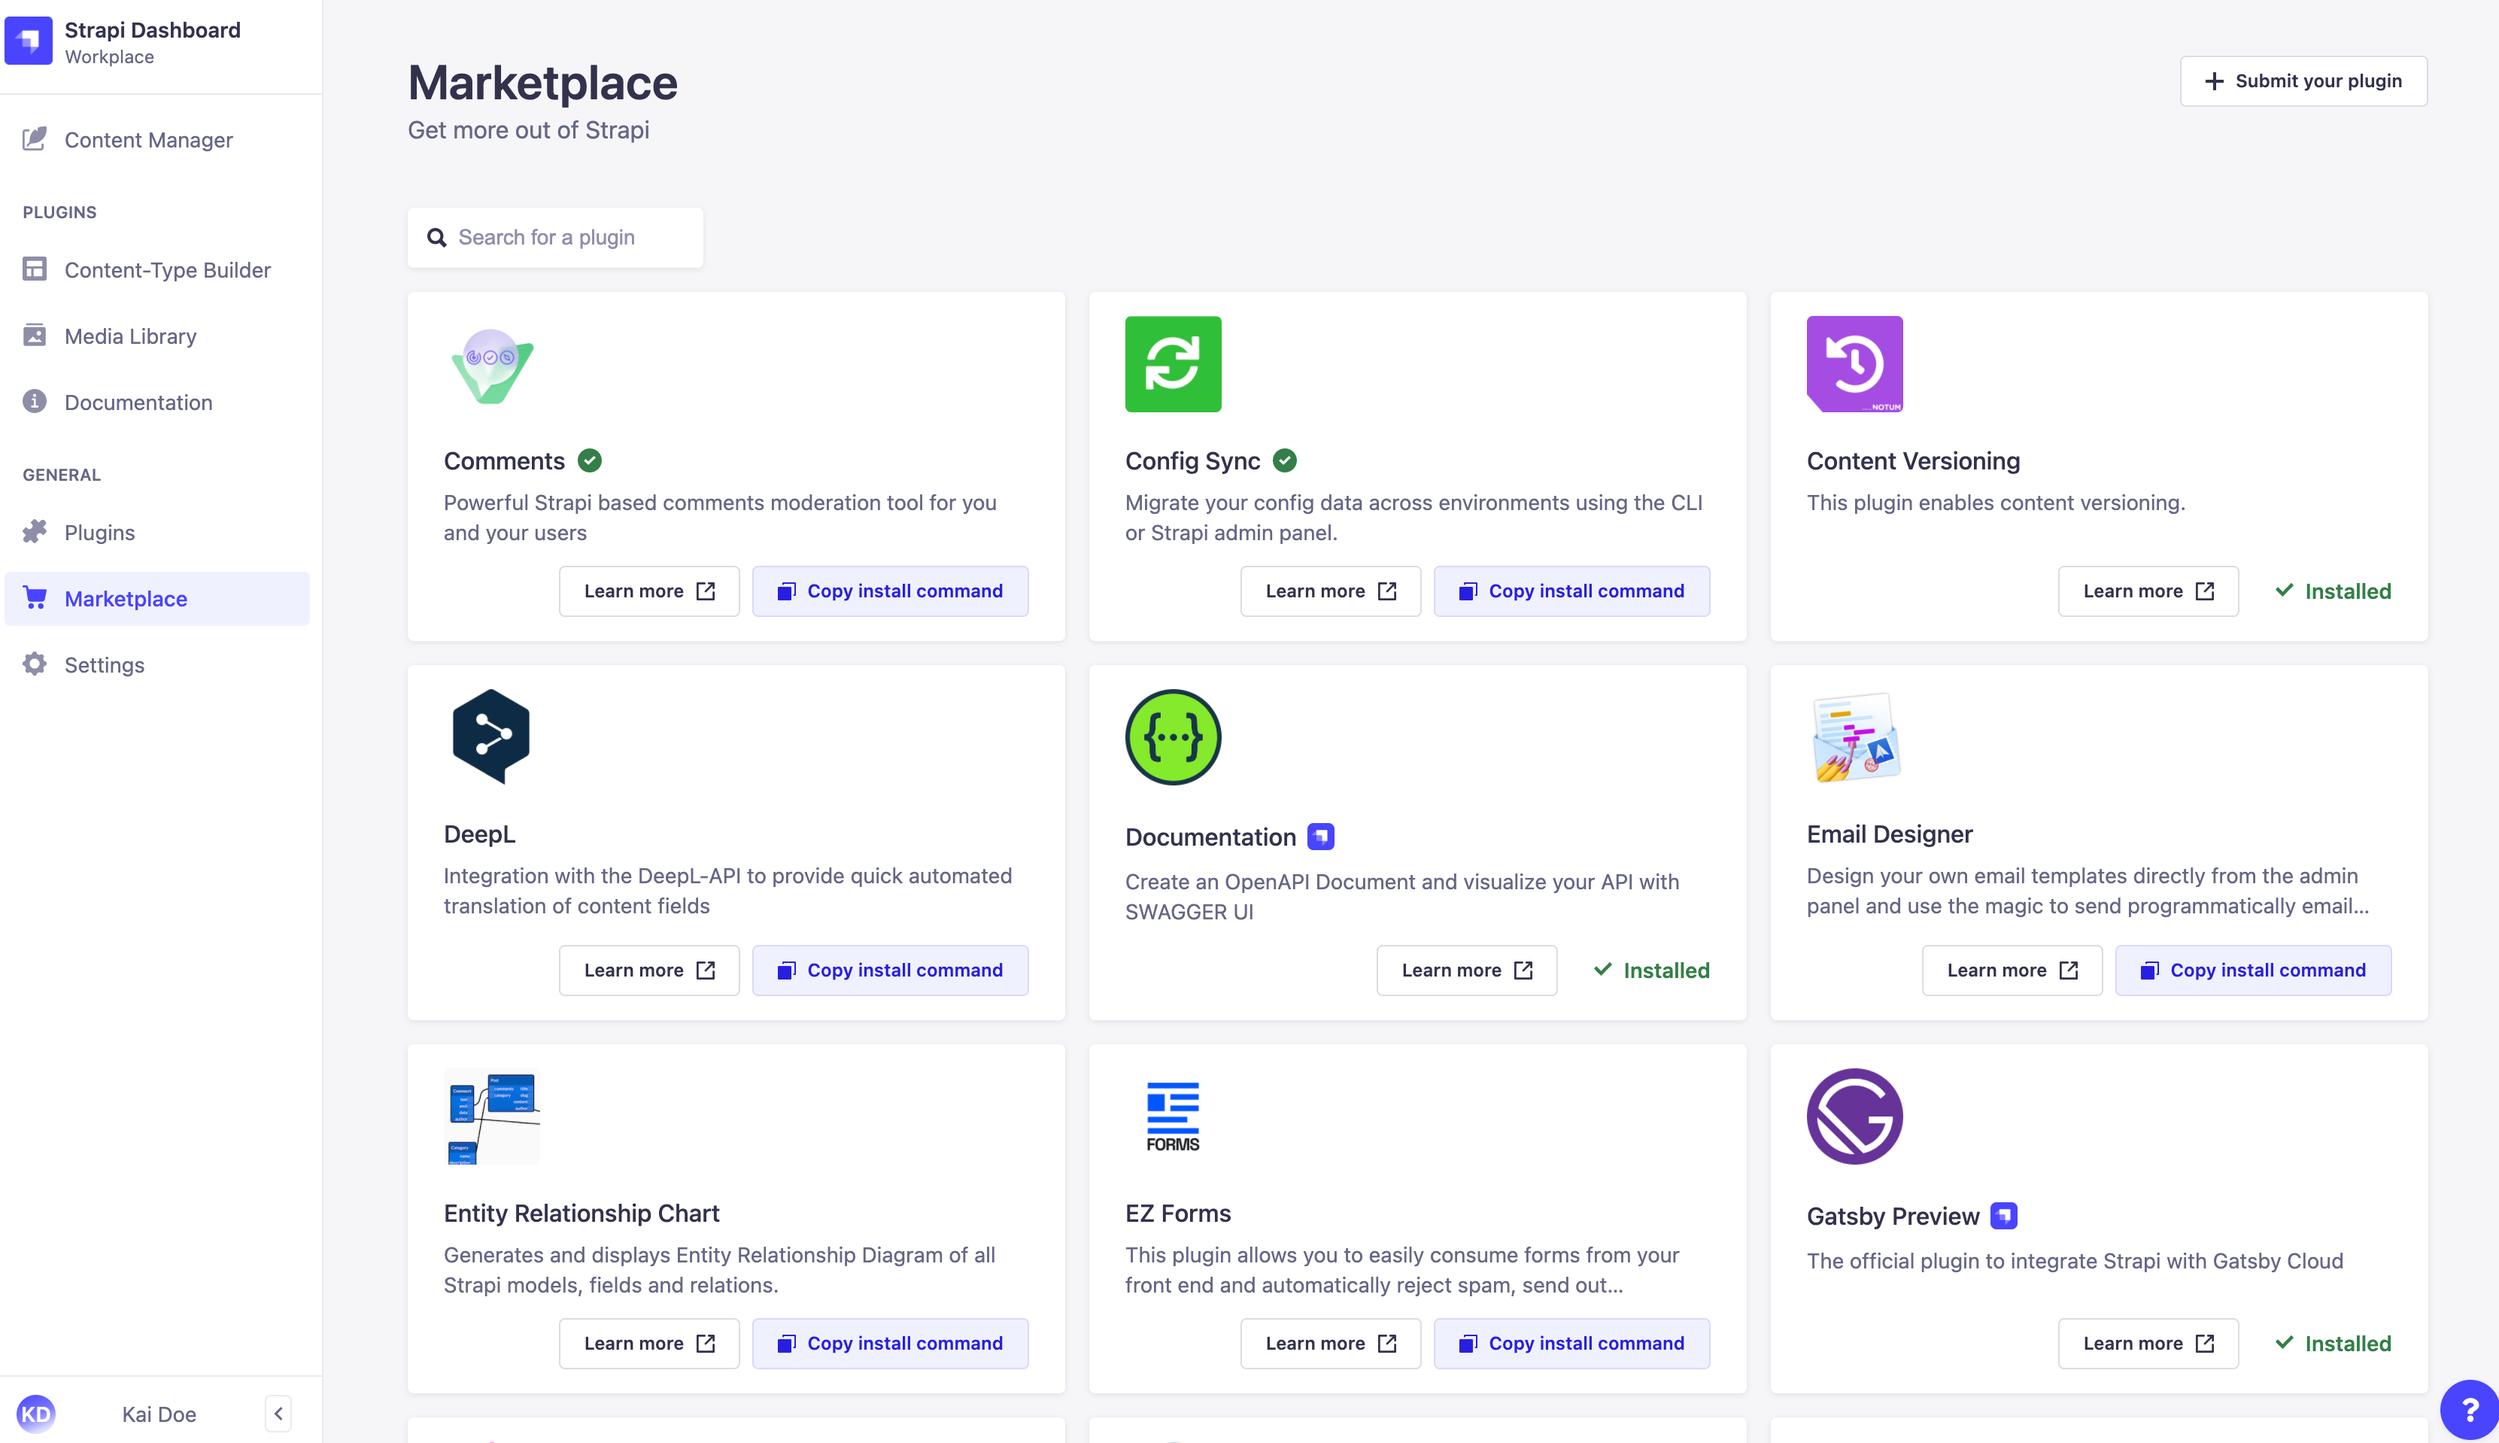
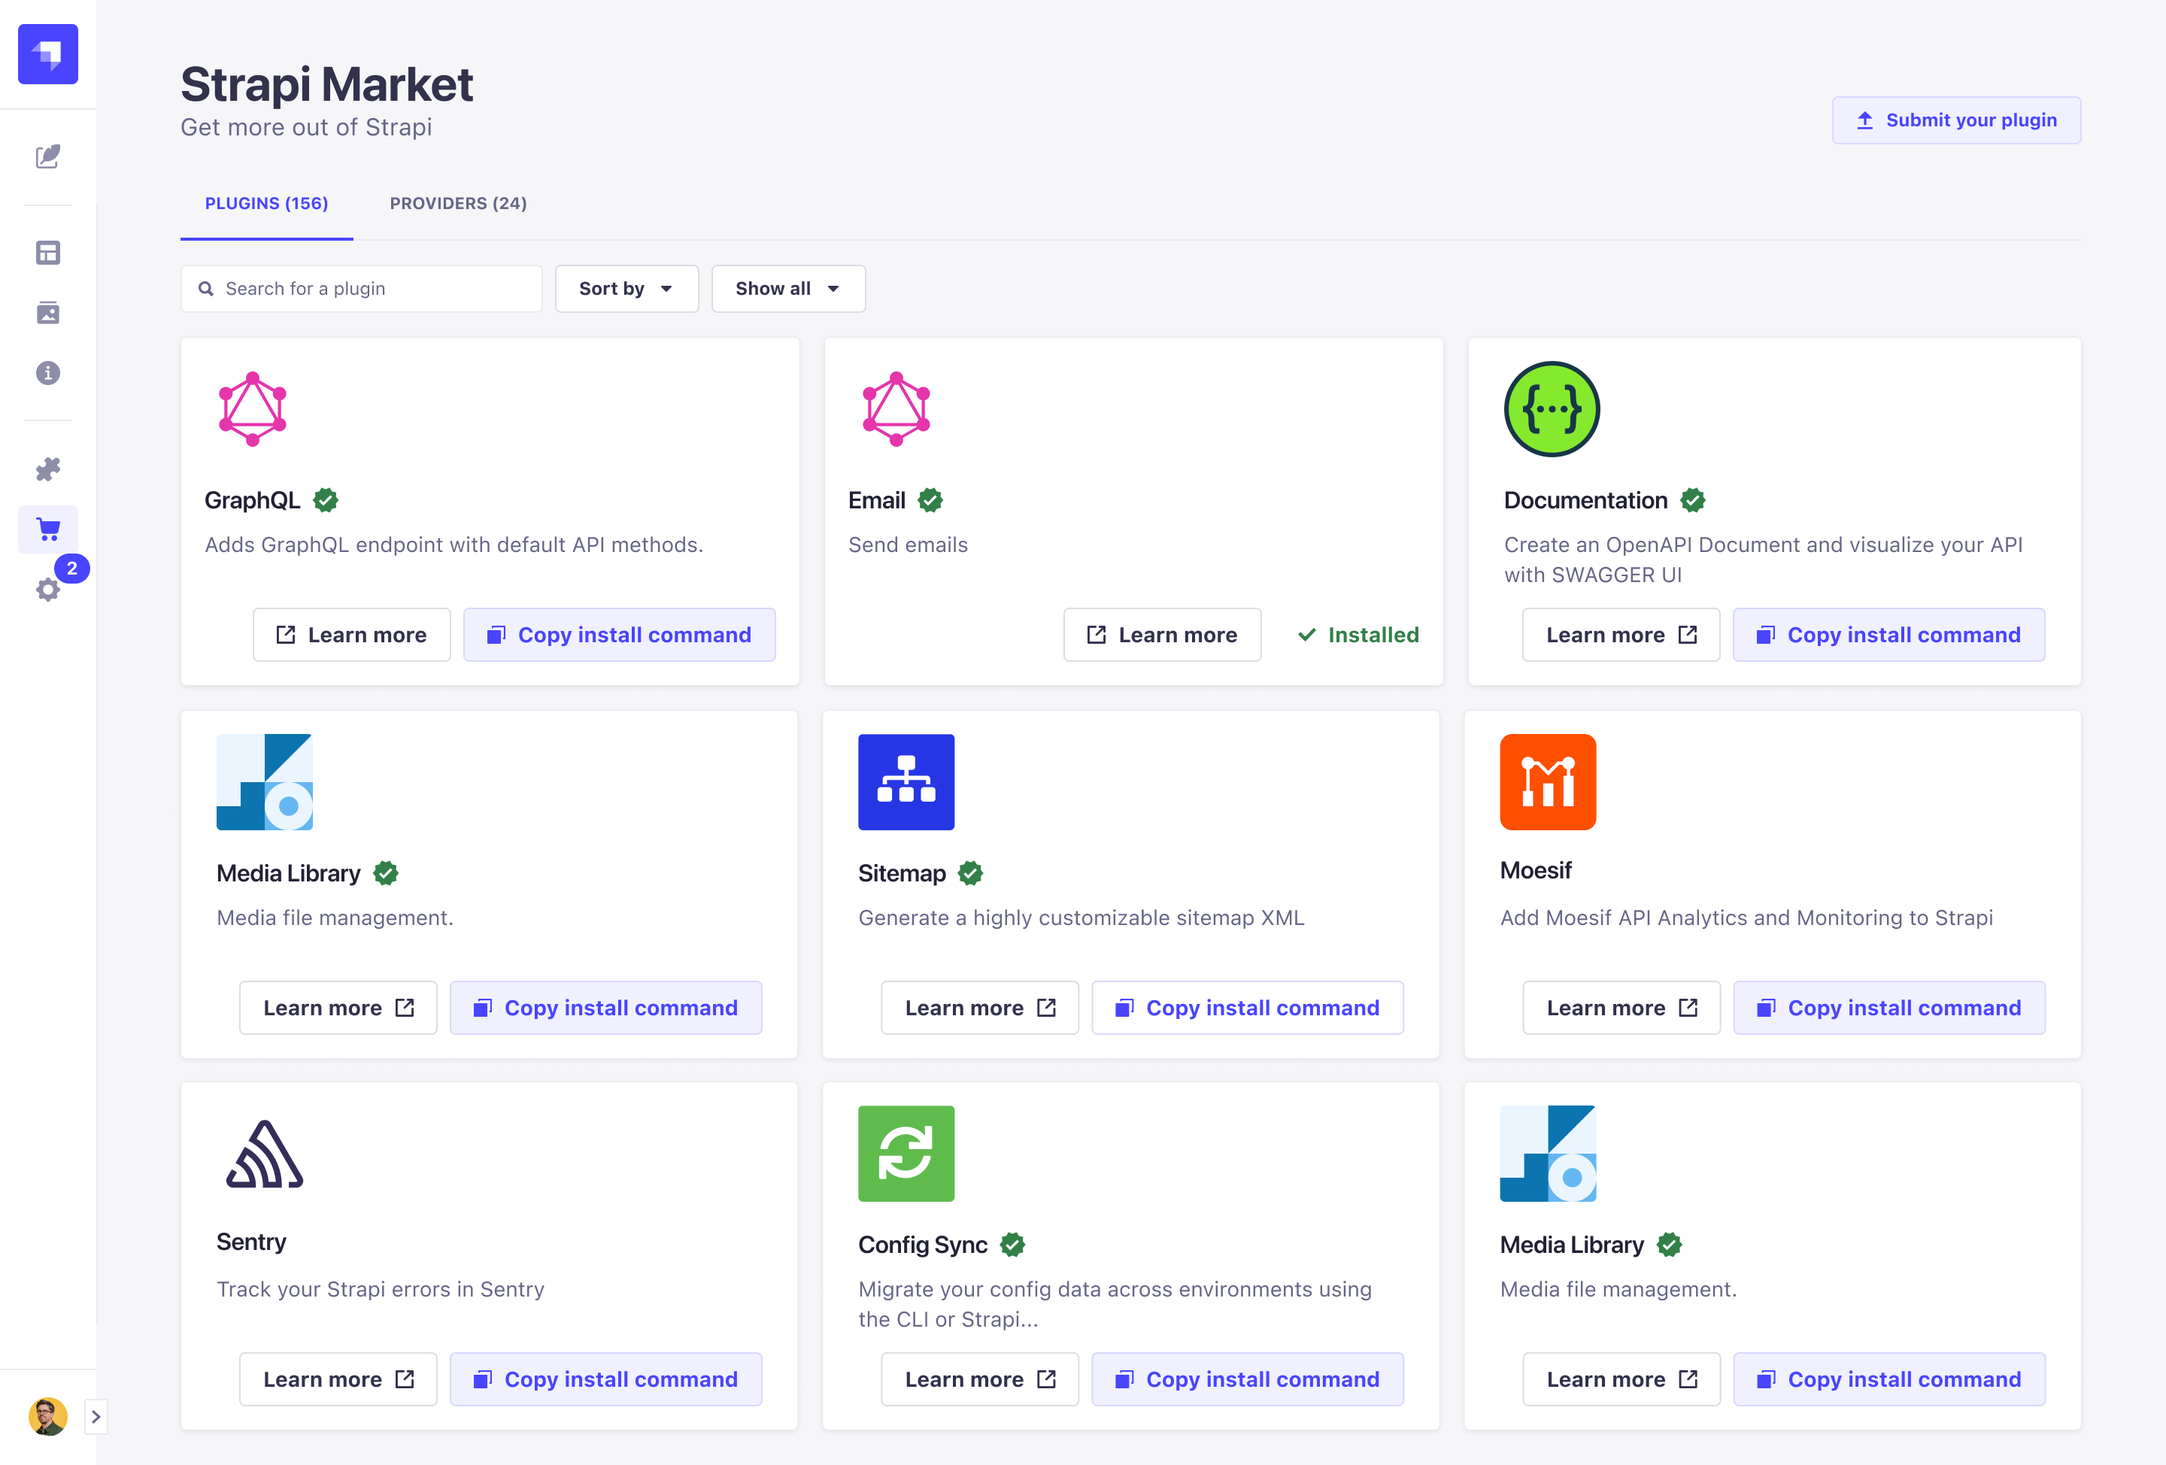
update plugins user guide for marketplace providers

diff --git a/docs/user-docs/latest/plugins/installing-plugins-via-marketplace.md b/docs/user-docs/latest/plugins/installing-plugins-via-marketplace.md
@@ -6,39 +6,42 @@ canonicalUrl: https://docs.strapi.io/user-docs/latest/plugins/installing-plugins
 
 # Managing Marketplace plugins
 
-The Marketplace is where users can find additional plugins to customize Strapi applications. The Marketplace is located in the admin panel, indicated by ![Marketplace icon](../assets/icons/marketplace.svg) _Marketplace_. In the Marketplace, users can browse or search for plugins, link to detailed plugin descriptions and submit new plugins. This documentation describes how to navigate the Marketplace and how to install Marketplace plugins.
+The Marketplace is where users can find additional plugins to customize Strapi applications, and additional providers to extend plugins. The Marketplace is located in the admin panel, indicated by ![Marketplace icon](../assets/icons/marketplace.svg) _Marketplace_. In the Marketplace, users can browse or search for plugins and providers, link to detailed descriptions for each, and submit new plugins and providers.
 
  ::: strapi In-app Marketplace vs. Market website
-The Marketplace in the admin panel only displays v4 plugins, but all plugins for all Strapi versions are discoverable in the [Strapi Market](https://market.strapi.io). Keep in mind that v3 and v4 plugins are not cross-compatible.
+The Marketplace in the admin panel only displays v4 plugins, but all plugins for all Strapi versions are discoverable in the [Strapi Market](https://market.strapi.io). 
+
+Keep in mind that v3 and v4 plugins are not cross-compatible, but that providers are compatible both with v3 and v4 plugins.
 :::
 
 ![The Marketplace interface](../assets/plugins/marketplace-v4.png)
 
-Plugins are displayed on individual cards containing:
+Plugins and providers are displayed on individual cards containing:
 
-- the plugin name, sometimes followed by either of the following badges:
-  - ![made by Strapi icon](../assets/icons/official-market.svg) to indicate the plugin is made by Strapi,
-  - ![verified by Strapi icon](../assets/icons/verified-marketplace.svg) to indicate the plugin was verified by Strapi.
-- the plugin description
+- their name, sometimes followed by either of the following badges:
+  - ![made by Strapi icon](../assets/icons/official-market.svg) to indicate it is made by Strapi,
+  - ![verified by Strapi icon](../assets/icons/verified-marketplace.svg) to indicate it was verified by Strapi.
+- the description
 - a **Learn more** button for additional information, including detailed implementation instructions
-- a **Copy install command** button to copy the plugin installation command to the local clipboard
+- a **Copy install command** button to copy the installation command to the local clipboard
 
-In the top right corner of the Marketplace, the **Submit your plugin** button redirects to the Strapi Market where it is possible to submit your own plugin.
+In the top right corner of the Marketplace, the **Submit your plugin** button redirects to the Strapi Market where it is possible to submit your own plugin and provider.
 
 ::: tip
-The search bar displays incremental search results based on the plugin name and description.
+The search bar displays incremental search results based on the plugin/provider name and description.
 :::
 
-## Installing Marketplace plugins
-
-To install a new plugin via the Marketplace:
-
-1. Go to the ![Marketplace icon](../assets/icons/marketplace.svg) Marketplace.
-2. Choose an available plugin and click on the **Copy install command** button.
-3. Switch to your terminal and navigate to the Strapi application directory.
-4. Paste and run the copied install command.
-5. Follow any plugin-specific implementation instructions.
+## Installing Marketplace plugins and providers
 
 ::: note
-Marketplace plugins are installed and deleted from the user's terminal ([see Developer Documentation](/developer-docs/latest/developer-resources/cli/CLI.md)).
+Marketplace plugins and providers are installed and deleted from the user's terminal ([see Developer Documentation](/developer-docs/latest/developer-resources/cli/CLI.md)).
 :::
+
+To install a new plugin or provider via the Marketplace:
+
+1. Go to the ![Marketplace icon](../assets/icons/marketplace.svg) Marketplace.
+2. Choose the **Plugins** tab to browse available plugins or the **Providers** tab to browse available providers.
+3. Choose an available plugin/provider and click on the **Copy install command** button.
+3. Switch to your terminal and navigate to the Strapi application directory.
+4. Paste and run the copied install command.
+5. Follow any plugin/provider-specific implementation instructions.

diff --git a/docs/user-docs/latest/plugins/introduction-to-plugins.md b/docs/user-docs/latest/plugins/introduction-to-plugins.md
@@ -6,15 +6,33 @@ canonicalUrl: https://docs.strapi.io/user-docs/latest/plugins/introduction-to-pl
 
 # Introduction to plugins
 
-Strapi is built around different types of plugins. Core plugins are essential for your Strapi application to function, and therefore cannot be deactivated. Pre-installed plugins, such as Internationalization, are installed in a default Strapi application. Additional plugins that extend and customize Strapi applications are available in the [Marketplace](../plugins/installing-plugins-via-marketplace.md).
+Strapi is built around different types of plugins. There is a set of core plugins that are pre-installed in a default Strapi application and cannot be deactivated as they are essential for your Strapi application to function. These core plugins are:
+
+* Content Manager
+* Content Type Builder
+* Email
+* Media Library
+* Internationalization
+* Roles and Permissions
 
 ::: note
-Core plugins which include the Content Manager and the Content-type Builder are documented in their own sections of the user guide as they are quite specific (see [Introduction to the Content Manager](../content-manager/introduction-to-content-manager.md) and [Introduction to the Content-type Builder](../content-types-builder/introduction-to-content-types-builder.md)). This Plugins section focuses on how to manage plugins in general and provides documentation for the other, non-core plugins.
+Core plugins such as the Content Manager and the Content-type Builder are documented in their own sections of the user guide (see [Introduction to the Content Manager](../content-manager/introduction-to-content-manager.md) and [Introduction to the Content-type Builder](../content-types-builder/introduction-to-content-types-builder.md)). This section focuses on how to manage plugins in general and provides documentation for other, non-core plugins.
 :::
 
- From the admin panel, administrators are allowed to:
+Additional plugins that you can use to extend and customize your Strapi applications are available in the [Marketplace](../plugins/installing-plugins-via-marketplace.md).
 
-- discover additional plugins in the ![Marketplace icon](../assets/icons/marketplace.svg) _Marketplace_ (see [Managing Marketplace plugins](/user-docs/latest/plugins/installing-plugins-via-marketplace.md))
-- review the currently installed plugins in ![Plugins icon](../assets/icons/plugins.svg) _Plugins_
+From the admin panel, administrators are allowed to:
+
+- discover additional plugins and [providers](#providers) in the ![Marketplace icon](../assets/icons/marketplace.svg) _Marketplace_ (see [Managing Marketplace plugins](/user-docs/latest/plugins/installing-plugins-via-marketplace.md))
+- review the currently installed plugins and [providers](#providers) in ![Plugins icon](../assets/icons/plugins.svg) _Plugins_
 
 ![Plugins settings](../assets/plugins/plugins-settings.png)
+
+## Providers
+
+Some plugins can be further extended through the configuration of _providers_, packages designed to be used on top of an existing plugin and add a specific integration to it. For example, you can use the AWS S3 provider to extend the Upload plugin and store files in your S3 bucket rather than locally on your server.
+
+Currently, the only plugins designed to work with providers are the:
+
+* [Email plugin](../../../developer-docs/latest/plugins/email.html#configure-the-plugin), and
+* [Upload plugin](../../../developer-docs/latest/plugins/upload.html#using-a-provider).
